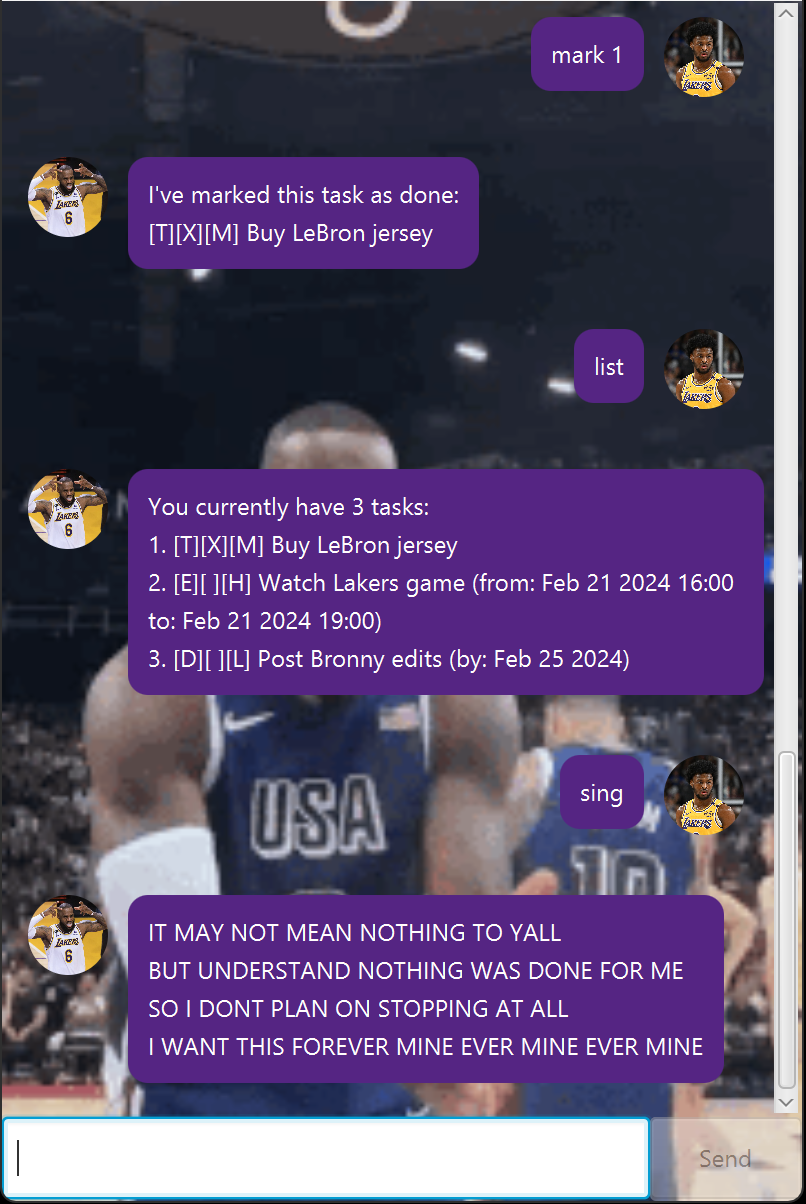
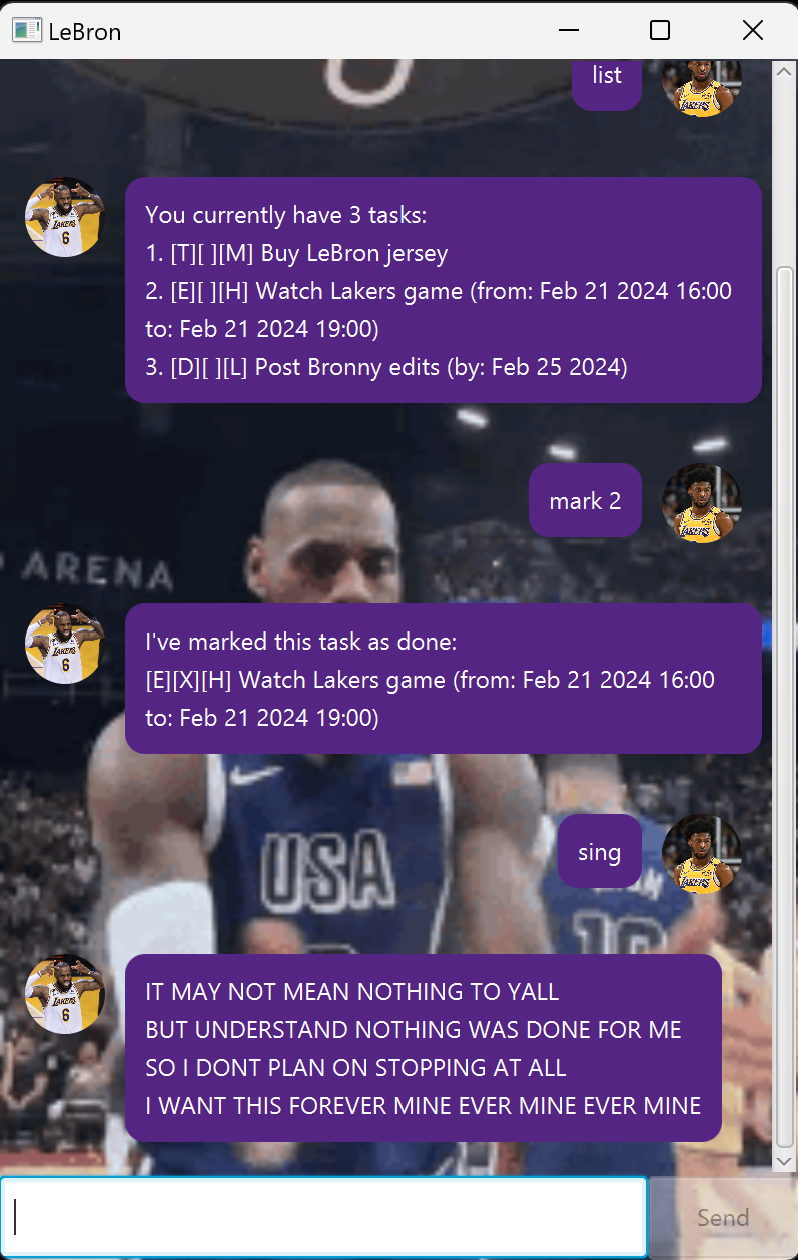
Update README.md

diff --git a/docs/README.md b/docs/README.md
@@ -1,28 +1,80 @@
-# Cheeto User Guide
+# 👑 LeBron - CLI Task Management ChatBot
 
-// Product screenshot goes here
+## 🐐 Overview
 
-// Product intro goes here
+![Screenshot of LeBron GUI](./Ui.png)
 
-## Adding deadlines
+The GOAT LeBron James is here to help you manage and prioritise your tasks and daily activities!
 
-// Describe the action and its outcome.
+Simply add your tasks, mark them as done, remove them or list them to see your upcoming
+tasks, deadlines and events using a simple set of commands!
 
-// Give examples of usage
+Occasionally, LeBron may even sing for you!
 
-Example: `keyword (optional arguments)`
+## 🌟 Features
 
-// A description of the expected outcome goes here
+### ℹ **Notes on Command Format**
+  ```
+  Priority Labels:
+  Low - l
+  Medium - m
+  High - h
+  
+  Date/Date-Time Format:
+  Date - yyyy-MM-dd (eg. 2024-02-18)
+  Date-Time - yyyy-MM-dd (eg. 2024-02-20 1800)
+  ```
 
-```
-expected output
-```
+- **Add Tasks**: Create Todo, Deadline and Event tasks and tag priority labels to them
+  ```
+  Format:
+  todo [priority] [description]
+  deadline [priority] [description] /by [date]
+  event [priority] [description] /[date-time] /[date-time]
+  
+  Examples:
+  todo h Buy LeBron jersey
+  deadline l Post LeBron edits /by 2024-02-18
+  event m Watch Lakers game /2024-02-20 1800 /2024-02-20 2100
+  ```
+  
+- **List Tasks**: See pending tasks, deadlines and events
+  ```
+  Format:
+  list
+  ```
 
-## Feature ABC
+- **Mark Tasks**: Mark or unmark tasks as done
+  ```
+  Format:
+  mark [taskNumber]
+  unmark [taskNumber]
+  
+  Examples:
+  mark 1
+  unmark 3
+  ```
 
-// Feature details
+- **Delete Tasks**: Remove tasks
+  ```
+  Format:
+  delete [taskNumber]
+  
+  Example:
+  delete 2
+  ```
 
+- **Find Tasks**: Find tasks with specified keyword
+  ```
+  Format:
+  find [keyword]
+  
+  Example:
+  find Bronny
+  ```
 
-## Feature XYZ
-
-// Feature details
+- **Exit and Save Tasks**: Exit the chatbot and save logged tasks
+  ```
+  Format:
+  bye
+  ```
